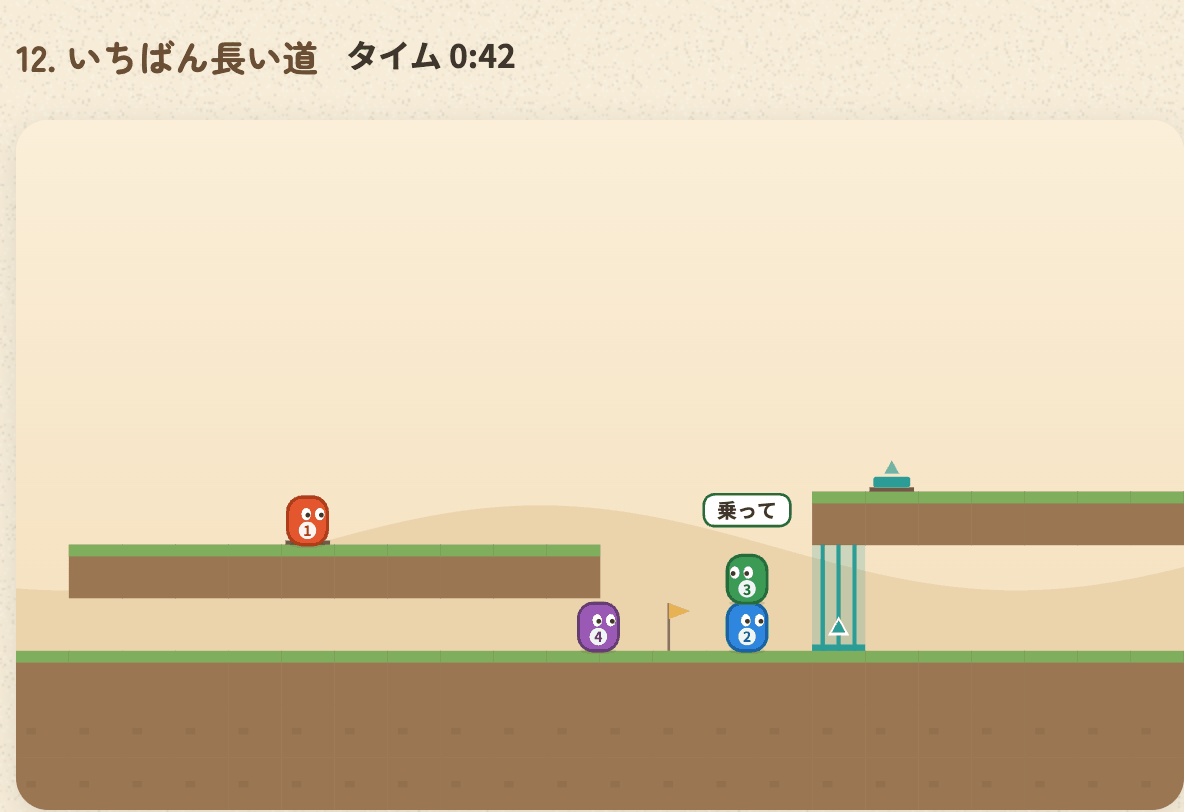
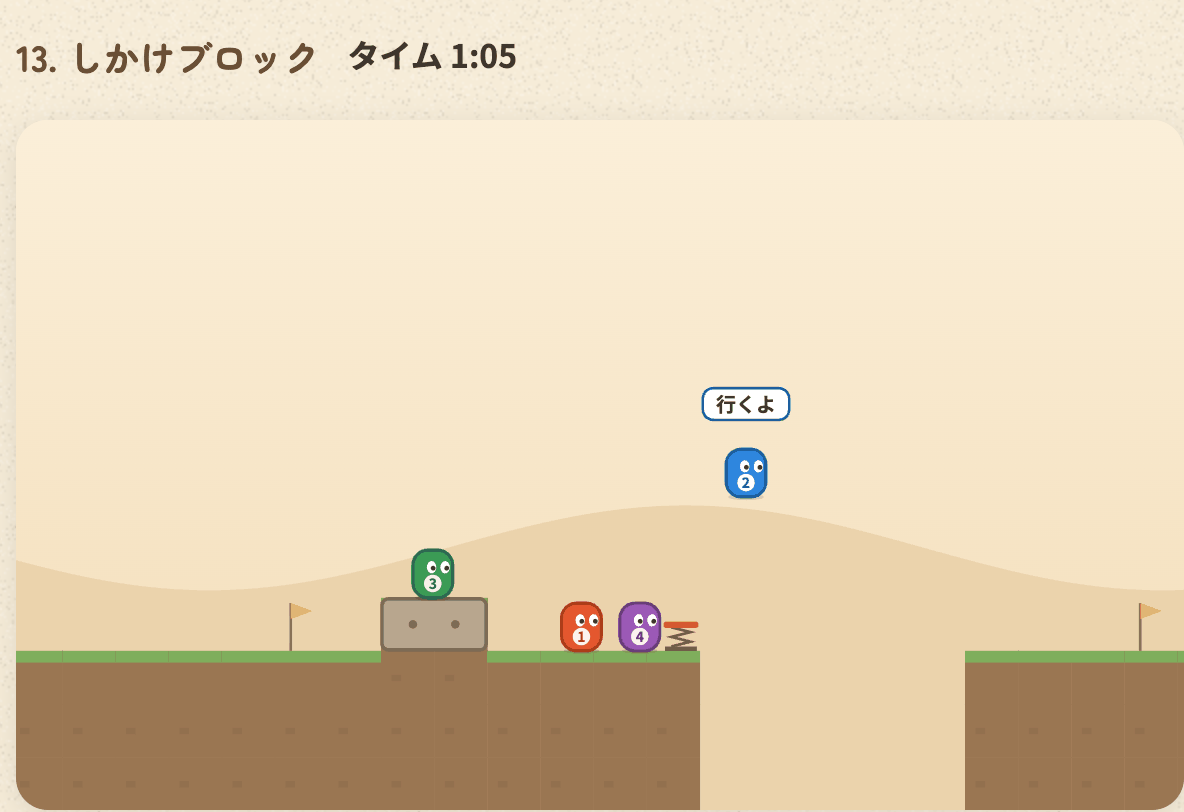
fix(noriai-road): サムネイルをしかけブロックの場面で撮り直す
ステージ13「しかけブロック」を足した変更に合わせ、開いたしかけブロック・穴の手前に置いたばね・
ばねで穴を跳ぶ人の場面にした（タイムアタックの時計の行も入れる撮り方は同じ）。

diff --git a/apps/index.html b/apps/index.html
@@ -3559,7 +3559,7 @@
           <div class="app-card__icon">
             <span class="material-symbols-rounded" aria-hidden="true">directions_run</span>
             <img class="app-card__illust" src="assets/illustrations/noriai-road.webp" alt="" width="400" height="400" loading="lazy" decoding="async" />
-            <img class="app-card__thumbnail" src="assets/thumbnails/noriai-road.png" alt="横スクロールのステージ12「いちばん長い道」をタイムアタックで遊んでいる画面。上に「タイム 0:42」。1番のキャラが台の上のスイッチをおさえ、高い台の手前で3番のキャラが2番の頭に乗って、4番のキャラに「乗って」の吹き出しを出している。高い台の上にスイッチ、下にとびら" width="1184" height="812" loading="lazy" decoding="async" />
+            <img class="app-card__thumbnail" src="assets/thumbnails/noriai-road.png" alt="横スクロールのステージ13「しかけブロック」をタイムアタックで遊んでいる画面。上に「タイム 1:05」。開いたしかけブロックの上に3番のキャラ、広い穴の手前に置いたばねとその手前の1番・4番のキャラ、ばねで穴の上へ跳んだ2番のキャラが「行くよ」の吹き出しを出している" width="1184" height="812" loading="lazy" decoding="async" />
           </div>
           <div class="app-card__body">
             <div class="app-card__name">のりあいロード</div>

diff --git a/tests/noriai-road/README.md b/tests/noriai-road/README.md
@@ -12,7 +12,7 @@
 | `e2e4.cjs` | ステージ6〜10: ステージを10こから選べる（ルーム・1台のパソコン）・同時のスイッチ（1つでは開かない・2つで開く・はなれても開いたまま・参加者の画面でも）・番号のスイッチ（ほかの番号ではおさえられない）・ばねで高く跳ぶ・新しいステージの画面 |
 | `e2e5.cjs` | タイムアタック: はじめはオフ・ホストだけがえらべる・時計が進む・クリアのタイムを両方の画面に（同じ値）・いちばん速いタイム（速くなった・遅かった）・ホストの読み込み直しで書きなおさない・オフにもどすと出ない・1台のパソコンで遊ぶ（保存しない） |
 | `e2e6.cjs` | しかけブロックと持ち運べるばね（ステージ13）: 2人がブロックに乗ると開く（両方の画面）・参加者の「ひろう」「置く」（ホストが決める）・ボタンの文言と読み上げ・置いたばねで穴をわたる（ひろわない）・1台のパソコン |
-| `shot.cjs` | ツール一覧のサムネイル（`apps/assets/thumbnails/noriai-road.png`）を撮る。通信しない「1台のパソコンで遊ぶ」のステージ12をタイムアタックで。`$NR_WORK/out/thumb-raw.png` に上の行（ステージ名と時計）から枠の下までを出すので、256色にする（`docs/development/thumbnails.md`） |
+| `shot.cjs` | ツール一覧のサムネイル（`apps/assets/thumbnails/noriai-road.png`）を撮る。通信しない「1台のパソコンで遊ぶ」のステージ13をタイムアタックで。`$NR_WORK/out/thumb-raw.png` に上の行（ステージ名と時計）から枠の下までを出すので、256色にする（`docs/development/thumbnails.md`） |
 | `lib.cjs` | 共通の部品（配信用サーバー・本番あて通信の検出・WebSocket のバイト数・画面の操作・ページの中の状態を読む `st`） |
 | `sync-site.sh` | `apps/shared`・`apps/assets`・`apps/noriai-road`・`apps/updates.json` を作業フォルダに写し、エミュレーター向けに差し替える |
 | `firebase.json` | エミュレーターのポート（auth 9971・database 9972・hub 4971・logging 4972）。配信は 6971 |
